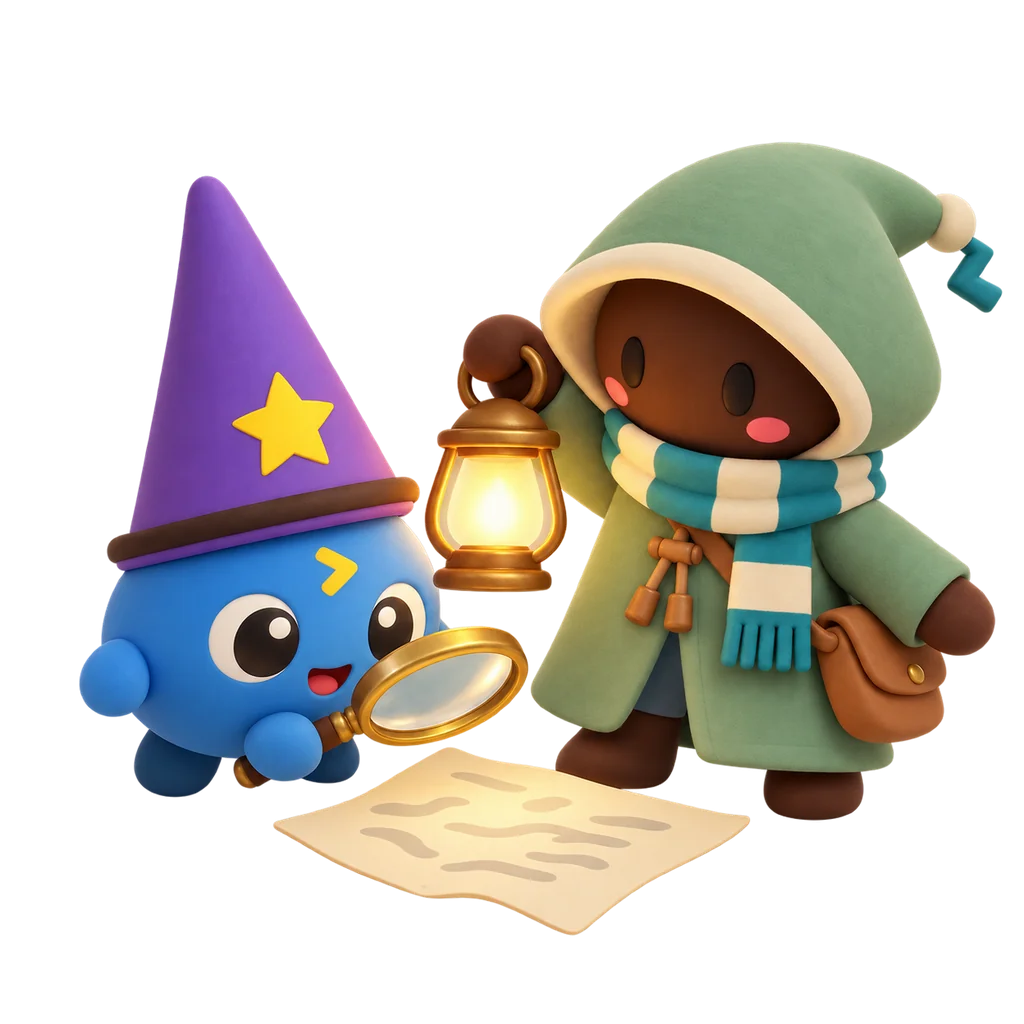
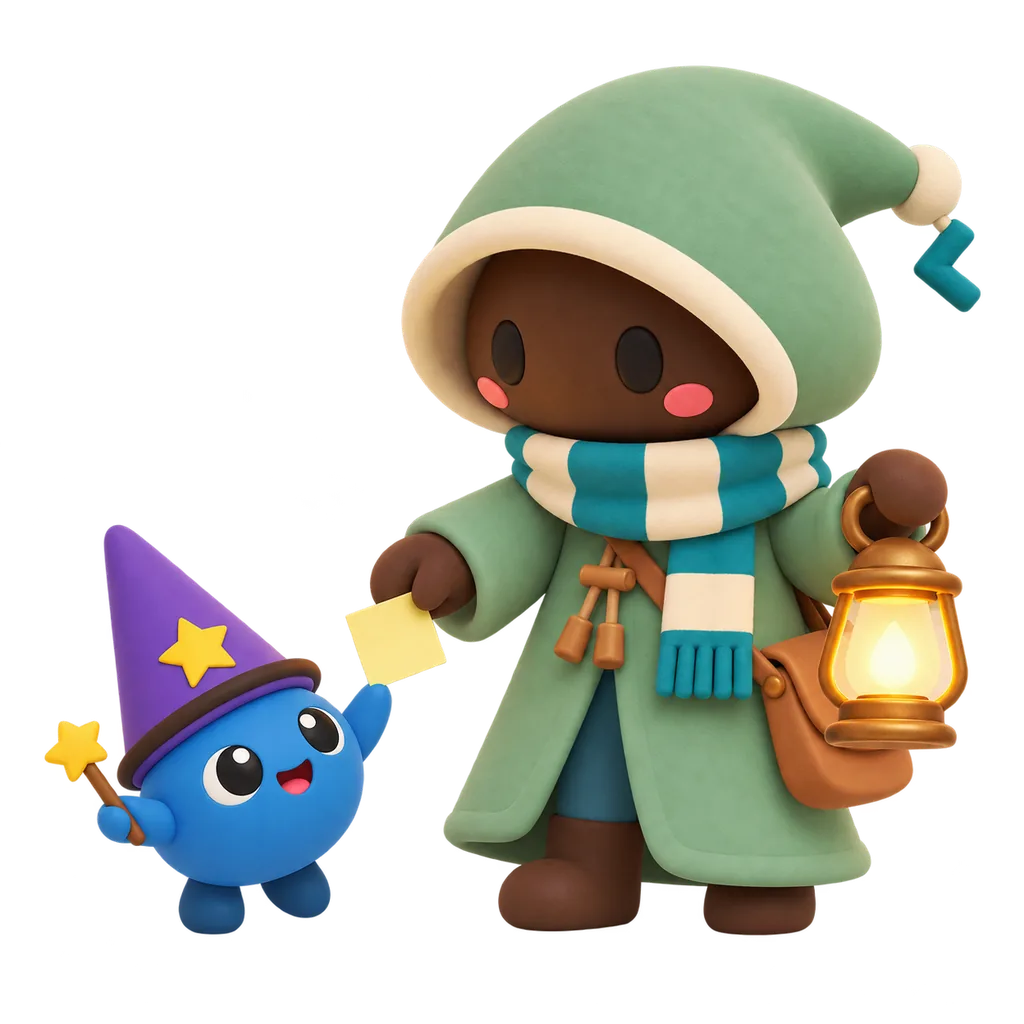
🎨 feat(web): use the v4 illustrations with the redrawn Kiki
Copies the ten WebP illustrations from adonis-brand@af970db and moves the brand snapshot to that commit.

diff --git a/apps/web/src/styles/brand-tokens.css b/apps/web/src/styles/brand-tokens.css
@@ -1,5 +1,5 @@
 /*
- * GENERATED by scripts/sync-brand-tokens.mjs from adonis-brand@0dc04d4bd8e4.
+ * GENERATED by scripts/sync-brand-tokens.mjs from adonis-brand@af970db4e886.
  * Do not edit by hand: change adonis-brand, then run `pnpm brand:sync`.
  */
 :root {

diff --git a/apps/web/src/styles/theme-roles.css b/apps/web/src/styles/theme-roles.css
@@ -1,5 +1,5 @@
 /*
- * GENERATED by scripts/sync-brand-tokens.mjs from adonis-brand@0dc04d4bd8e4.
+ * GENERATED by scripts/sync-brand-tokens.mjs from adonis-brand@af970db4e886.
  * Do not edit by hand: change adonis-brand, then run `pnpm brand:sync`.
  */
 

diff --git a/DESIGN.md b/DESIGN.md
@@ -1,5 +1,5 @@
 ---
-# GENERATED by scripts/sync-brand-tokens.mjs from adonis-brand@0dc04d4bd8e4 (projects/skills/DESIGN.md).
+# GENERATED by scripts/sync-brand-tokens.mjs from adonis-brand@af970db4e886 (projects/skills/DESIGN.md).
 # Do not edit by hand: change adonis-brand, then run `pnpm brand:sync`.
 version: alpha
 name: Nika Skills
